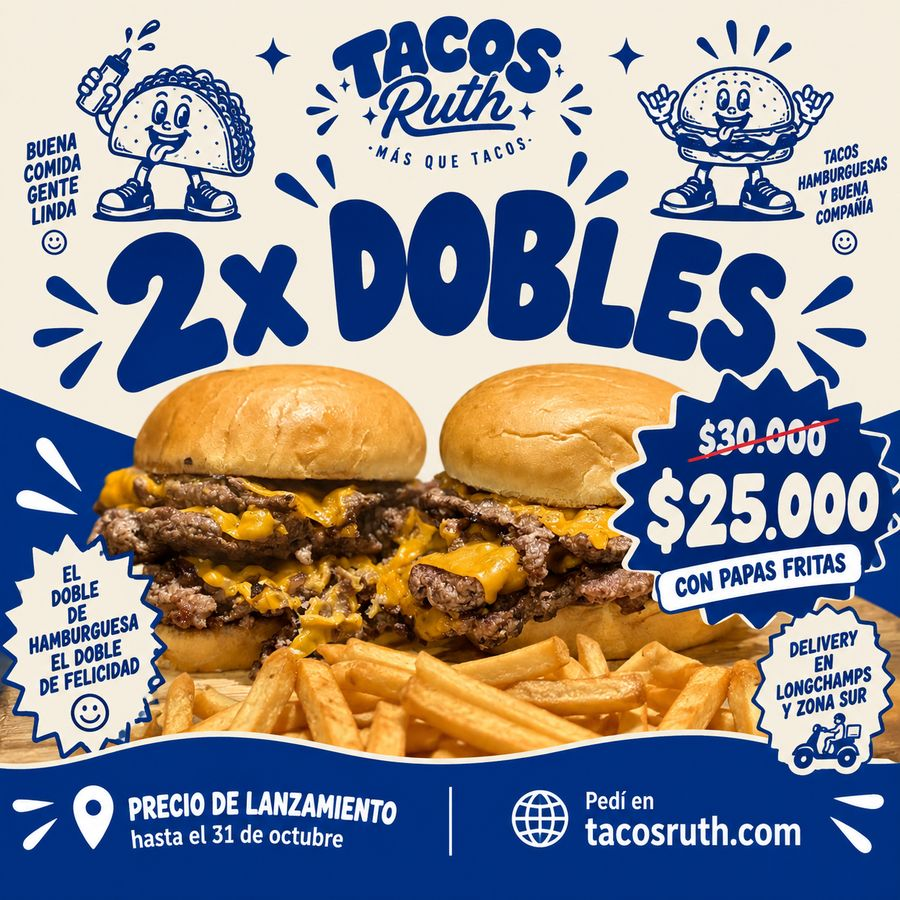
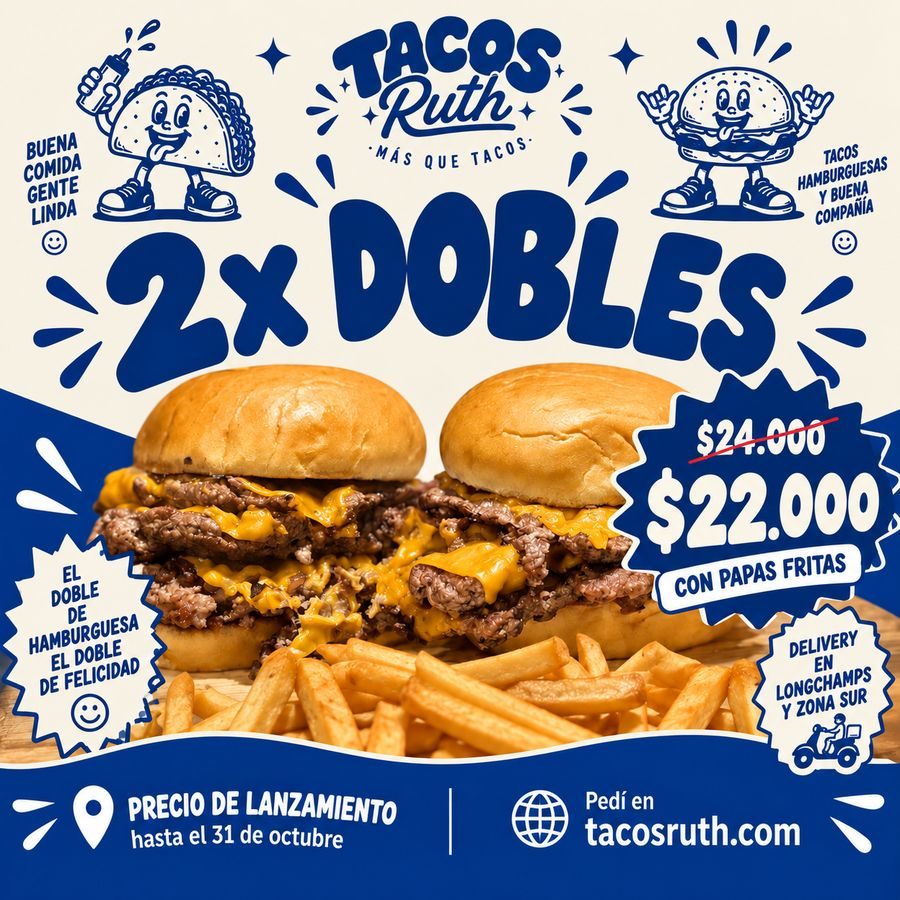
Corregir precio de la promo 2x Hamburguesas Dobles
Estaba mal calculada: costaba más que comprar dos dobles sueltas
($25.000 la promo vs $24.000 las dos sueltas). Se ajusta a $22.000
(antes $24.000 tachado) y se reemplaza la imagen de la card por la
versión con los precios ya corregidos impresos.

Claude-Session: https://claude.ai/code/session_017XbtU68PzfsFu9uHwpXReV

diff --git a/index.html b/index.html
@@ -834,7 +834,7 @@
   };
 
   var PRECIOS_PROMOS = {
-    dosDobles:       { precio: 25000, antes: 30000 },
+    dosDobles:       { precio: 22000, antes: 24000 },
     tresSimples:     { precio: 25000, antes: 37500 },
     comboTacoBurger: { precio: 26000, antes: 30000 }
   };
